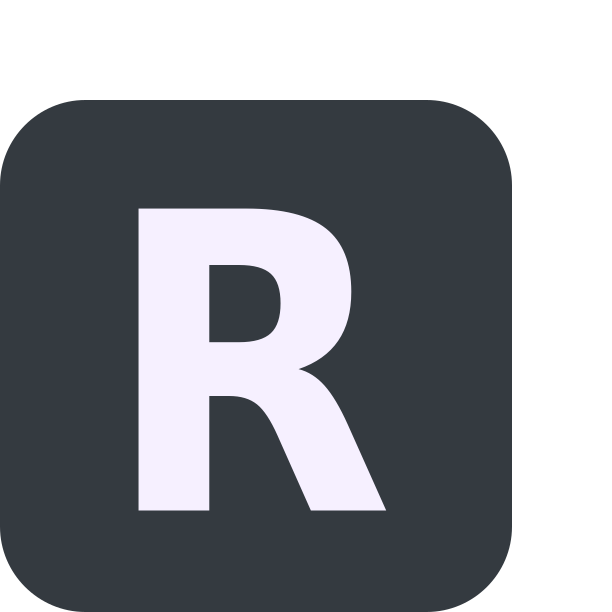
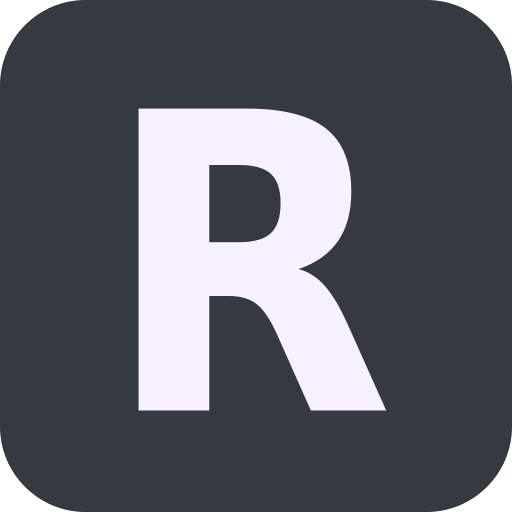
minor fixes

diff --git a/sw.js b/sw.js
@@ -8,7 +8,7 @@ var urlsToCache = [
   '/rooster2/ploeg4.html',
   '/rooster2/index.js',
   '/rooster2/css/style.css',
-  '/rooster2/img/rooster-solid.png',
+  '/rooster2/img/rooster-solid.svg',
   '/rooster2/js/highlightDay.js'
 ];
 
